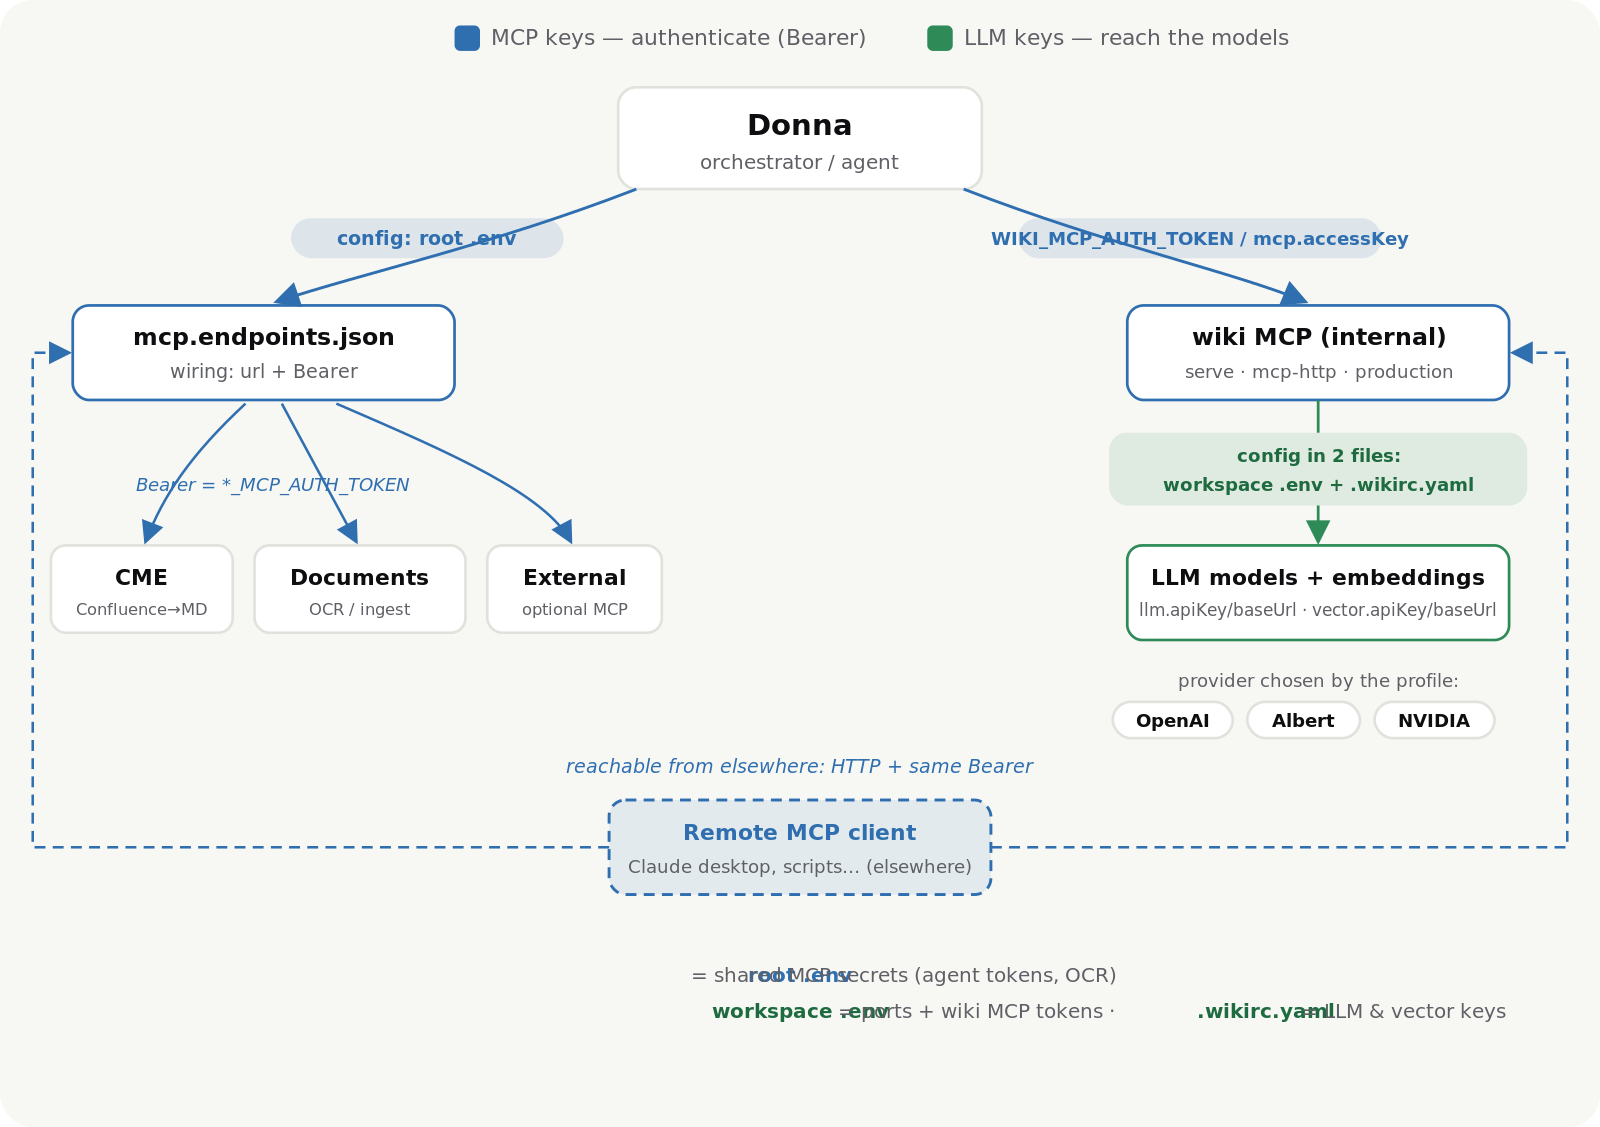
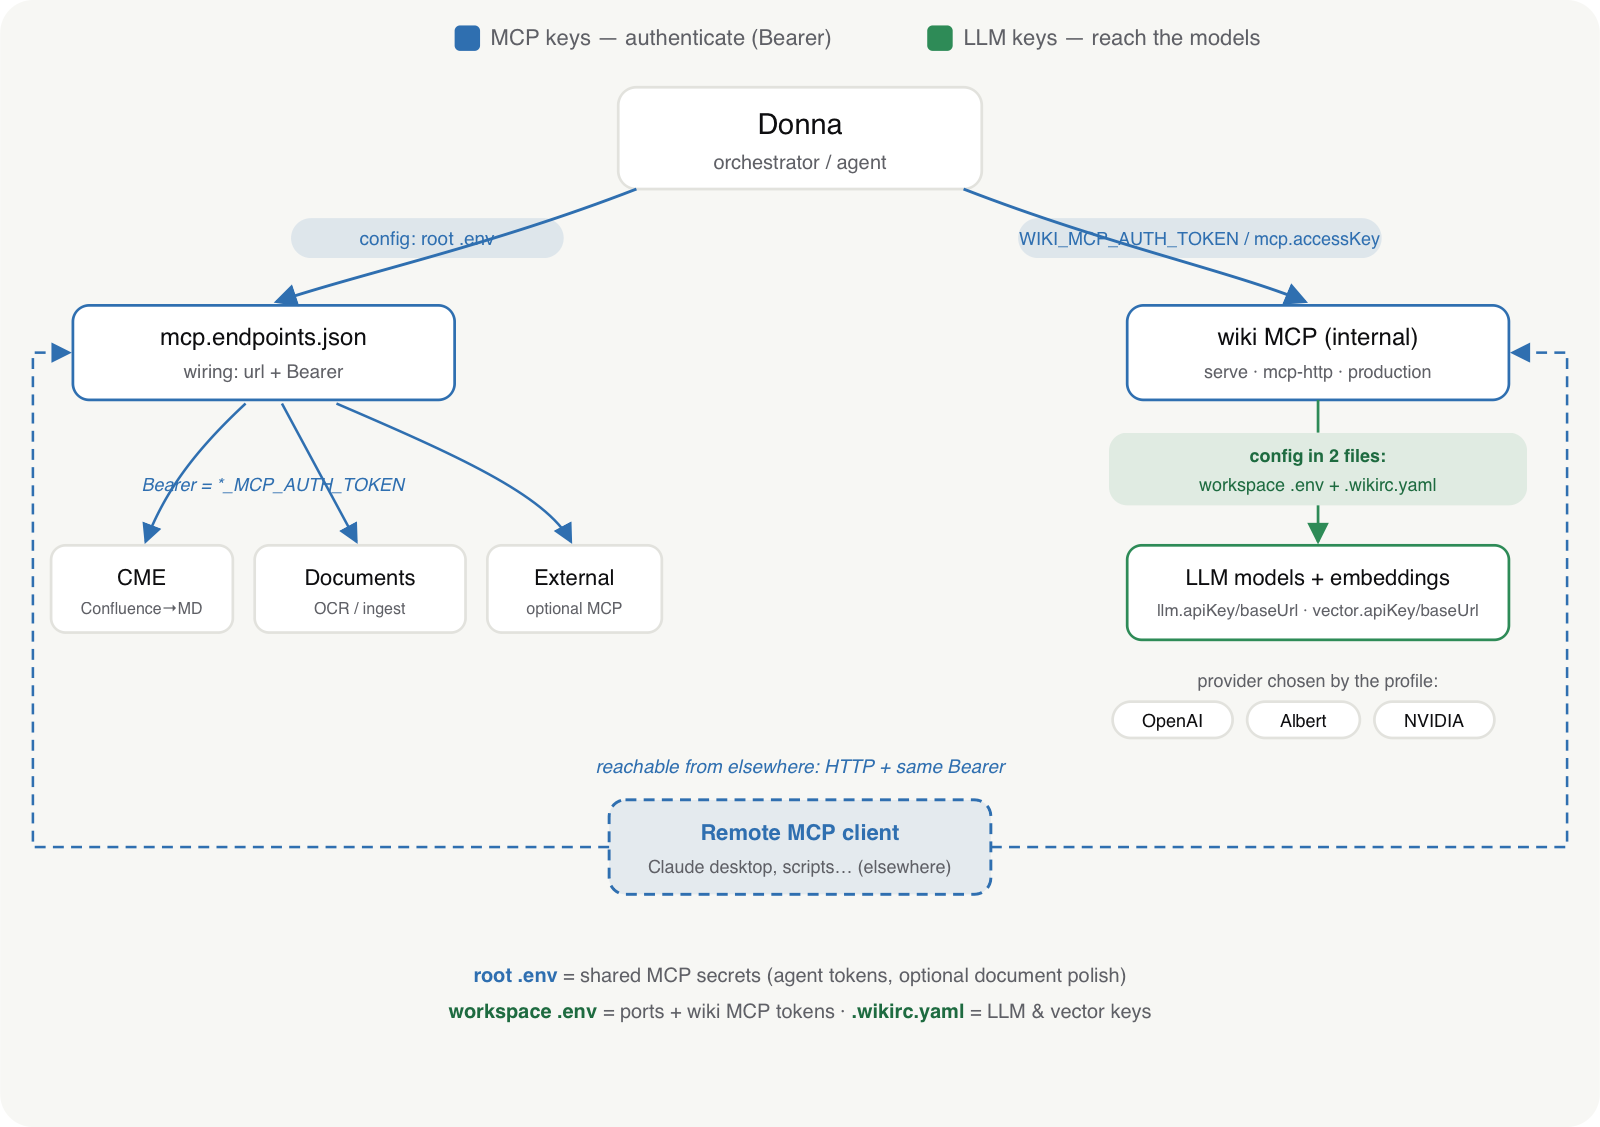
Use workspace LLM profile for document polish

diff --git a/tests/core/dockerCompose.test.js b/tests/core/dockerCompose.test.js
@@ -118,18 +118,13 @@ test('required .env keys agree with the compose defaults they mirror', async () 
   }
 });
 
-test('no compose default points a deployment at an LLM provider it did not choose', async () => {
-  // A hardcoded `${DOCUMENT_LLM_BASE_URL:-https://…}` sent every install to a
-  // third-party endpoint the operator never saw, since the key ships commented.
-  // The .env is the only source; an empty value also neutralises the image's
-  // own ENV fallback.
+test('documents agent has no deployment-level LLM configuration', async () => {
+  // Markdown polishing may use only the target workspace's .wikirc profile.
   const agents = await readFile(new URL('../../agents.docker-compose.yml', import.meta.url), 'utf8');
   const envExample = await readFile(new URL('../../.env.example', import.meta.url), 'utf8');
 
-  for (const key of ['DOCUMENT_LLM_BASE_URL', 'DOCUMENT_LLM_MODEL', 'DOCUMENT_LLM_API_KEY']) {
-    assert.match(agents, new RegExp(`- ${key}=\\$\\{${key}:-\\}`), `${key} must have an empty compose default`);
-    assert.doesNotMatch(envExample, new RegExp(`^${key}=.+$`, 'm'), `${key} must stay commented in .env.example`);
-  }
+  assert.doesNotMatch(agents, /DOCUMENT_LLM_/);
+  assert.doesNotMatch(envExample, /^DOCUMENT_LLM_/m);
 });
 
 test('log reading resolves service aliases like start and stop do', async () => {
@@ -164,8 +159,7 @@ test('agent compose services run as the host uid and gid', async () => {
   assert.ok(connectorsEnv.includes('CONNECTORS_BRIDGE_ENABLED=${CONNECTORS_BRIDGE_ENABLED:-true}'));
   assert.ok(connectorsEnv.some((entry) => entry.startsWith('NO_PROXY=') && entry.includes('host.docker.internal')));
   assert.deepEqual(agentsCompose.services.connectors.extra_hosts, ['host.docker.internal:host-gateway']);
-  // OCR endpoint, model and key carry no default — see the dedicated test.
-  assert.equal(agentsCompose.services.documents.environment.includes('DOCUMENT_LLM_API_KEY=${DOCUMENT_LLM_API_KEY:-}'), true);
+  assert.equal(agentsCompose.services.documents.environment.some((entry) => entry.startsWith('DOCUMENT_LLM_')), false);
 });
 
 test('serve proxies connector OAuth through the host agent endpoint', async () => {

diff --git a/docs/configuration.md b/docs/configuration.md
@@ -29,7 +29,7 @@ Mapped onto the four configuration files:
 
 | File | Owner | Scope | Holds |
 | --- | --- | --- | --- |
-| `llm-wiki-manager/.env` | manager | **global** | shared secrets: packaged agent MCP tokens, OCR LLM, optional provider keys, port overrides |
+| `llm-wiki-manager/.env` | manager | **global** | shared secrets: packaged agent MCP tokens, optional provider keys, port overrides |
 | `llm-wiki-manager/mcp.endpoints.json` | manager | global | where each external agent lives + which `Bearer`/header to send |
 | `workspaces/<name>/.env` | manager | per workspace | ports, workspace path, and the wiki's own MCP tokens |
 | `workspaces/<name>/.wikirc.yaml` (+ `.wikirc.yaml.<profile>`) | workspace | per workspace | the LLM and vector configuration (provider/model/apiKey/baseUrl/retrieval) |
@@ -68,10 +68,7 @@ workspace `.wikirc.yaml`.
 | `CONNECTORS_BRIDGE_ENABLED` | no | Tchap bridge — talk to Donna from a Tchap forum (default `true`). Each workspace is still connected from the chat and activated from the forum; `false` forbids it for the deployment and removes the `connectors_tchap_*` tools. The service reaches the host runtime with `WIKI_MANAGER_RUNTIME_URL`/`WIKI_MANAGER_RUNTIME_TOKEN`, like `serve`. User view: `llm-wiki/help-doc/15-tchap-bridge.md` |
 | `CONNECTORS_BRIDGE_MAX_AGE_SECONDS` | no | a forum message older than this (sent while the workstation was off) is not relayed, and the bridge says how many it dropped (default `600`) |
 | `OAUTH_STATE_SECRET` / `OAUTH_START_TOKEN` | for Gmail OAuth | distinct generated secrets for signed state and protected OAuth start |
-| `DOCUMENT_LLM_BASE_URL` | for OCR | OpenAI-compatible vision endpoint for document OCR. No default: image OCR stays off until this, the model and the key are all set |
-| `DOCUMENT_LLM_MODEL` | for OCR | OCR model name, matching the endpoint above |
-| `DOCUMENT_LLM_API_KEY` | for OCR | key for the OCR provider (or reuse `OPENAI_API_KEY`) |
-| `DOCUMENT_LLM_TIMEOUT_SECONDS` | no | OCR request timeout |
+| `INDRA_OCR_THREADS` | no | CPU threads used by local document OCR (default `4`) |
 | `EXA_MCP_API_KEY` | only if Exa enabled | used by `mcp.endpoints.json` when the Exa endpoint is declared |
 | `CME_MCP_PORT` / `DOCUMENTS_MCP_PORT` | no | port overrides (defaults `3336` / `3337`) |
 | `NODE_USE_ENV_PROXY` | behind an HTTP proxy | set to `1` so the Node runtime's `fetch` calls use `HTTP_PROXY` / `HTTPS_PROXY` |

diff --git a/docs/technical-reference.md b/docs/technical-reference.md
@@ -63,7 +63,7 @@ keys** (`apiKey` + `baseUrl` that *reach a model*).
 
 | File | Owner | Scope | Holds |
 | --- | --- | --- | --- |
-| `.env` | manager | global | shared secrets: agent MCP tokens, OCR LLM, port overrides, variables for any user-declared external MCP |
+| `.env` | manager | global | shared secrets: agent MCP tokens, port overrides, variables for any user-declared external MCP |
 | `mcp.endpoints.json` | manager | global | where each external agent lives + which `Bearer`/header to send |
 | `workspaces/<name>/.env` | manager | per workspace | ports, workspace path, the wiki's own MCP tokens |
 | `workspaces/<name>/.wikirc.yaml` (+ `.wikirc.yaml.<profile>`) | workspace | per workspace | LLM & vector keys (provider/model/apiKey/baseUrl/retrieval) |
@@ -742,12 +742,11 @@ Original files are stored under
 `.agents-data/documents/input/<workspace>/`. Converted Markdown is written by
 the documents agent to `<workspace>/raw/untracked/`. If the documents agent is
 down, the upload remains stored and can be converted later.
-Image files, scanned PDFs, and images detected inside PDF or Office documents
-are sent through LLM OCR automatically. The bundled agent stack defaults to
-the Albert-compatible endpoint and
-[`lightonai/LightOnOCR-2-1B`](https://huggingface.co/lightonai/LightOnOCR-2-1B);
-configure it with `DOCUMENT_LLM_BASE_URL`, `DOCUMENT_LLM_MODEL`, and the
-dedicated `DOCUMENT_LLM_API_KEY` (an ambient `OPENAI_API_KEY` is not used).
+Images, PDFs, and raster images embedded in ZIP-based Office files are converted
+by Indra locally on CPU; source files are not sent to an OCR provider. The model
+is downloaded from Hugging Face on first use and retained in the documents
+agent's persistent cache volume. Optional Markdown polishing uses only the
+selected workspace's `.wikirc.yaml` LLM profile; no separate LLM settings exist.
 
 In the served web Chat, a successful conversion also adds the new
 `raw/untracked/*.md` path as a document-context badge. Up to five wiki or

diff --git a/docs/usage.md b/docs/usage.md
@@ -133,9 +133,13 @@ Drive it from the shell:
 ```
 
 Originals are stored under `.agents-data/documents/input/<workspace>/`; converted
-Markdown lands in `<workspace>/raw/untracked/`. Images, scanned PDFs, and images
-embedded in PDF/Office documents are sent through LLM OCR automatically. If the
-agent is down, uploads stay staged and can be converted later.
+Markdown lands in `<workspace>/raw/untracked/`. Images, PDFs, and raster images
+embedded in ZIP-based Office files are processed by local Indra OCR on CPU;
+their contents are not sent to an OCR provider. Indra's model downloads from
+Hugging Face on first use and stays in the agent's persistent model cache. An
+optional polish pass reuses the selected workspace's `.wikirc.yaml` LLM profile;
+it is skipped if that profile is unavailable. If the agent is down, uploads
+stay staged and can be converted later.
 
 ### Endpoints & tokens recap
 
